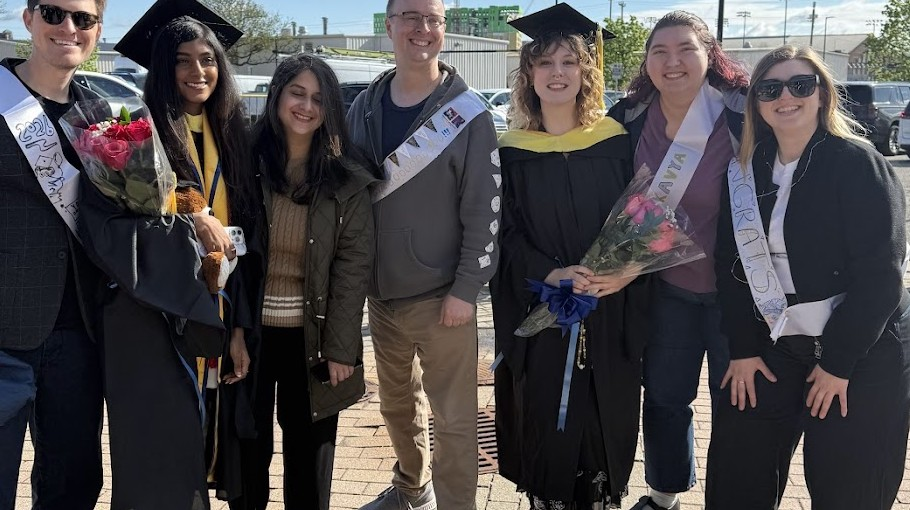
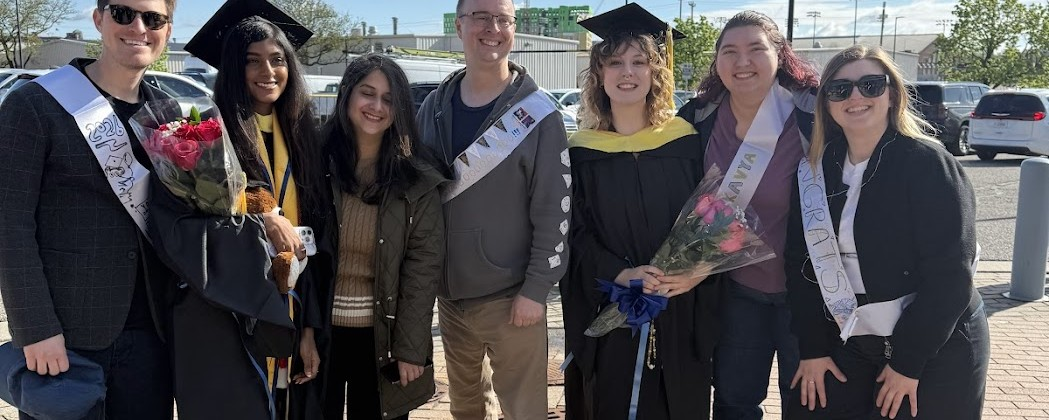
Panoramic crop on team photo: heads to flowers, no legs

diff --git a/more/puzzles/index.html b/more/puzzles/index.html
@@ -128,7 +128,7 @@
 
             <figure class="my-8">
               <div class="rounded-xl overflow-hidden bg-surface-container-low">
-                <img src="/assets/puzzles-team.jpg?v=2" alt="The XR team at a graduation event, smiling outdoors" class="w-full h-auto block">
+                <img src="/assets/puzzles-team.jpg?v=3" alt="The XR team at a graduation event, smiling outdoors" class="w-full h-auto block">
               </div>
               <figcaption class="text-sm italic text-on-surface-variant mt-3">The team.</figcaption>
             </figure>
